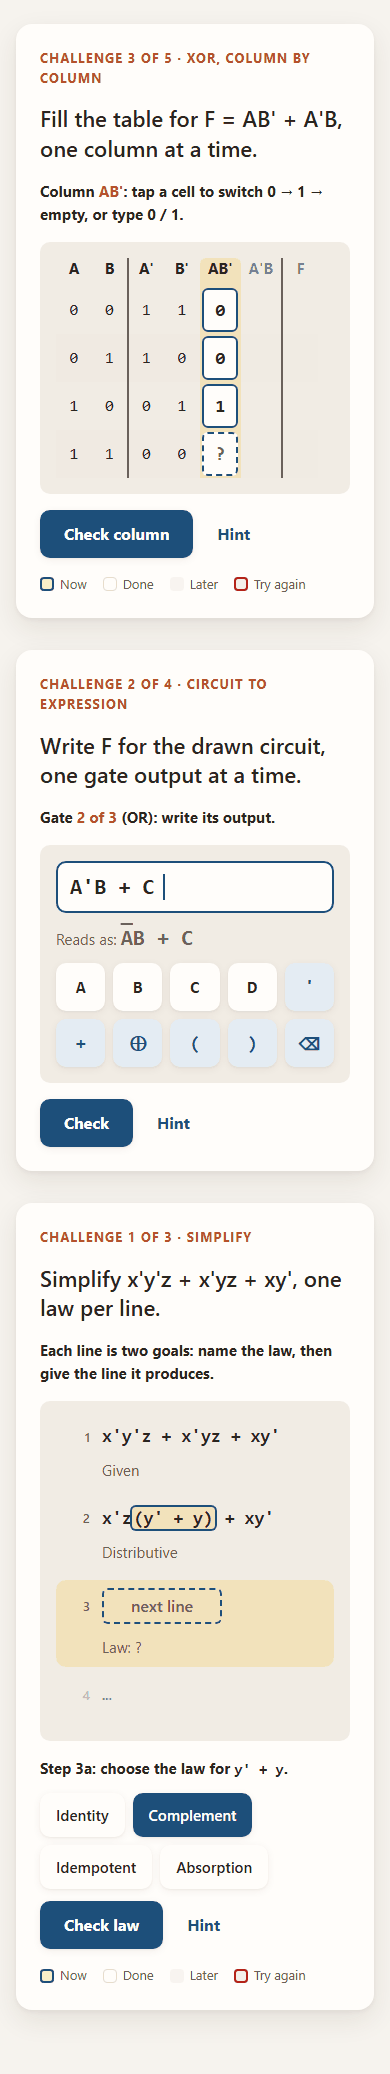
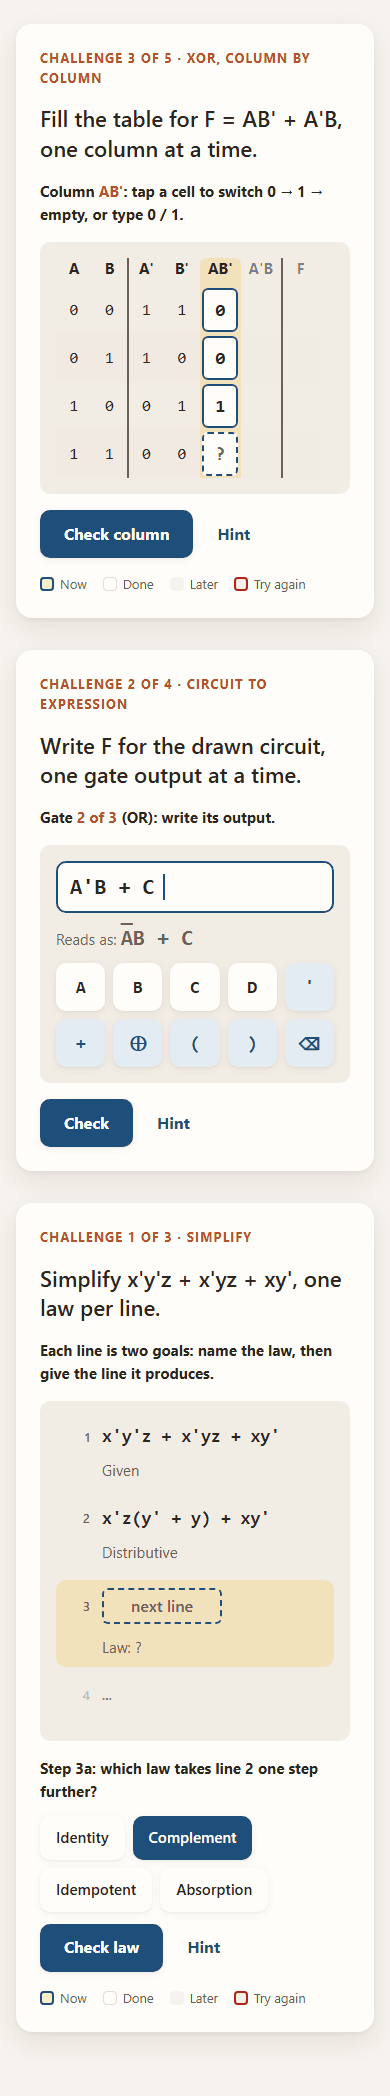
docs(design): Pedagogy changes — edge-only timing goal, first wrong cell only, derivation highlight as a hint (#245)

diff --git a/docs/design/ecet111/mockups/kinds-c.html b/docs/design/ecet111/mockups/kinds-c.html
@@ -1,3 +1,3 @@
 <!doctype html><html lang="en"><head><meta charset="utf-8"><meta name="viewport" content="width=device-width,initial-scale=1"><title>kinds-c</title>
 <link rel="stylesheet" href="../../redesign-r1/mockups/r1.css"><link rel="stylesheet" href="kinds.css"></head><body>
-<main class="stack-6" style="padding-top:var(--space-5)"><section class="stagecard"><p class="eyebrow">Challenge 1 of 2 · D flip-flop timing</p><p style="font-size:var(--text-lg);font-weight:600;line-height:1.35">Q starts at 0. Draw Q edge by edge (positive-edge triggered).</p><p class="goal">Inputs on top, clock in the middle, the output you draw at the bottom.</p><div class="well"><div class="trow2"><div class="tnames"><span style="top:6px">D</span><span style="top:52px">CLK</span><span style="top:94px">Q</span></div><div class="tscroll"><svg viewBox="-10 -4 620 136" width="620" height="136" role="img" aria-label="Timing diagram: D, CLK, Q"><rect x="284" y="0" width="32" height="128" rx="6" fill="var(--focus-halo)" stroke="var(--accent)" stroke-width="2"/><path d="M0 0 V128" stroke="var(--text-muted)" stroke-width="1" stroke-dasharray="2 4"/><path d="M100 0 V128" stroke="var(--text-muted)" stroke-width="1" stroke-dasharray="2 4"/><path d="M200 0 V128" stroke="var(--text-muted)" stroke-width="1" stroke-dasharray="2 4"/><path d="M300 0 V128" stroke="var(--text-muted)" stroke-width="1" stroke-dasharray="2 4"/><path d="M400 0 V128" stroke="var(--text-muted)" stroke-width="1" stroke-dasharray="2 4"/><path d="M500 0 V128" stroke="var(--text-muted)" stroke-width="1" stroke-dasharray="2 4"/><path d="M0 4 L-30 4 L-30 4 L70 4 L70 24 L170 24 L170 24 L270 24 L270 4 L370 4 L370 4 L470 4 L470 24 L600 24" fill="none" stroke="var(--text)" stroke-width="2"/><path d="M0 70 L0 70 L0 50 L50 50 L50 70 L100 70 L100 50 L150 50 L150 70 L200 70 L200 50 L250 50 L250 70 L300 70 L300 50 L350 50 L350 70 L400 70 L400 50 L450 50 L450 70 L500 70 L500 50 L550 50 L550 70 L600 70" fill="none" stroke="var(--text)" stroke-width="2"/><path d="M0 66 l-4 6 h8 z" fill="var(--text-muted)"/><path d="M100 66 l-4 6 h8 z" fill="var(--text-muted)"/><path d="M200 66 l-4 6 h8 z" fill="var(--text-muted)"/><path d="M300 66 l-4 6 h8 z" fill="var(--text-muted)"/><path d="M400 66 l-4 6 h8 z" fill="var(--text-muted)"/><path d="M500 66 l-4 6 h8 z" fill="var(--text-muted)"/><path d="M0 112 L0 112 L0 92 L100 92 L100 112 L200 112 L200 112 L300 112" fill="none" stroke="var(--signal-high)" stroke-width="3"/><text x="308" y="108" font-size="14" font-weight="700" fill="var(--accent)" font-family="system-ui">?</text></svg></div></div></div><div class="stack-2"><p class="goal">Edge <b>4 of 6</b> (rising): D is 1. What is Q after this edge?</p><div class="edgebar"><span class="seg" role="radiogroup" aria-label="Q after edge 4"><button>0</button><button>1</button></span><a class="btn btn-quiet" href="#">Hint</a></div></div><div class="legend"><span><i class="sw active"></i>Now</span><span><i class="sw done"></i>Done</span><span><i class="sw pend"></i>Later</span><span><i class="sw wrong"></i>Try again</span></div></section><section class="stagecard"><p class="eyebrow">Challenge 3 of 5 · State table</p><p style="font-size:var(--text-lg);font-weight:600;line-height:1.35">Fill the state table from A⁺ = Ax + Bx, B⁺ = A'x, y = (A + B)x'.</p><p class="goal">Column group <b>Next state</b>, column <b>B⁺</b>: use B⁺ = A'x on each row.</p><div class="well"><table class="tt st" aria-label="State table"><thead><tr><th colspan="2" class="band1">Present state</th><th class="band2 sep">Input</th><th colspan="2" class="band3 sep">Next state</th><th class="band4 sep">Output</th></tr><tr><th class="band1">A</th><th class="band1">B</th><th class="band2 sep">x</th><th class="band3 sep">A⁺</th><th class="band3 act">B⁺</th><th class="band4 sep pend">y</th></tr></thead><tbody><tr><td>0</td><td>0</td><td class="sep">0</td><td class="sep">0</td><td class="act"><span class="cellbtn">0</span></td><td class="sep pend"></td></tr><tr><td>0</td><td>0</td><td class="sep">1</td><td class="sep">0</td><td class="act"><span class="cellbtn">1</span></td><td class="sep pend"></td></tr><tr><td>0</td><td>1</td><td class="sep">0</td><td class="sep">0</td><td class="act"><span class="cellbtn">0</span></td><td class="sep pend"></td></tr><tr><td>0</td><td>1</td><td class="sep">1</td><td class="sep">1</td><td class="act"><span class="cellbtn">1</span></td><td class="sep pend"></td></tr><tr><td>1</td><td>0</td><td class="sep">0</td><td class="sep">0</td><td class="act"><span class="cellbtn">0</span></td><td class="sep pend"></td></tr><tr><td>1</td><td>0</td><td class="sep">1</td><td class="sep">1</td><td class="act"><span class="cellbtn empty">?</span></td><td class="sep pend"></td></tr><tr><td>1</td><td>1</td><td class="sep">0</td><td class="sep">0</td><td class="act"><span class="cellbtn empty">?</span></td><td class="sep pend"></td></tr><tr><td>1</td><td>1</td><td class="sep">1</td><td class="sep">1</td><td class="act"><span class="cellbtn empty">?</span></td><td class="sep pend"></td></tr></tbody></table></div><div class="row"><a class="btn btn-primary" href="#">Check column</a><a class="btn btn-quiet" href="#">Hint</a></div><div class="legend"><span><i class="sw active"></i>Now</span><span><i class="sw done"></i>Done</span><span><i class="sw pend"></i>Later</span><span><i class="sw wrong"></i>Try again</span></div></section><section class="stagecard"><p class="eyebrow">Challenge 4 of 5 · State diagram</p><p style="font-size:var(--text-lg);font-weight:600;line-height:1.35">Label the diagram from your state table, one arrow at a time.</p><p class="goal">Labels read input/output. Dashed arrows come later.</p><div class="well"><svg class="sd" viewBox="0 -6 360 300" width="360" style="max-width:100%;height:auto" role="img" aria-label="State diagram with four states"><defs><marker id="ah-done" viewBox="0 0 10 10" refX="9" refY="5" markerWidth="7" markerHeight="7" orient="auto-start-reverse"><path d="M0 0 L10 5 L0 10 z" fill="var(--text)"/></marker><marker id="ah-act" viewBox="0 0 10 10" refX="9" refY="5" markerWidth="7" markerHeight="7" orient="auto-start-reverse"><path d="M0 0 L10 5 L0 10 z" fill="var(--accent)"/></marker><marker id="ah-pend" viewBox="0 0 10 10" refX="9" refY="5" markerWidth="7" markerHeight="7" orient="auto-start-reverse"><path d="M0 0 L10 5 L0 10 z" fill="var(--text-muted)"/></marker></defs><path d="M100 52 Q180 22 260 52" fill="none" stroke="var(--text)" stroke-width="2" marker-end="url(#ah-done)"/><text x="180" y="34" text-anchor="middle" font-size="14" font-weight="700" fill="var(--text)">1/0</text><path d="M290 90 Q318 145 290 200" fill="none" stroke="var(--accent)" stroke-width="3.5" marker-end="url(#ah-act)"/><rect x="296" y="132" width="52" height="28" rx="6" fill="var(--focus-halo)" stroke="var(--accent)" stroke-width="2"/><text x="322" y="152" text-anchor="middle" font-size="14" font-weight="700" fill="var(--accent)">?/?</text><path d="M260 238 Q180 268 100 238" fill="none" stroke="var(--text-muted)" stroke-width="2" stroke-dasharray="6 5" opacity="0.6" marker-end="url(#ah-pend)"/><path d="M70 200 Q42 145 70 90" fill="none" stroke="var(--text)" stroke-width="2" marker-end="url(#ah-done)"/><text x="30" y="152" text-anchor="middle" font-size="14" font-weight="700" fill="var(--text)">0/1</text><path d="M48 38 C20 0 120 0 92 38" fill="none" stroke="var(--text)" stroke-width="2" marker-end="url(#ah-done)"/><text x="70" y="12" text-anchor="middle" font-size="14" font-weight="700" fill="var(--text)">0/0</text><circle cx="70" cy="60" r="30" fill="var(--surface)" stroke="var(--text)" stroke-width="2"/><text x="70" y="65" text-anchor="middle" font-size="16" font-weight="700" fill="var(--text)">00</text><circle cx="290" cy="60" r="30" fill="var(--surface)" stroke="var(--text)" stroke-width="2"/><text x="290" y="65" text-anchor="middle" font-size="16" font-weight="700" fill="var(--text)">01</text><circle cx="290" cy="230" r="30" fill="var(--surface)" stroke="var(--text)" stroke-width="2"/><text x="290" y="235" text-anchor="middle" font-size="16" font-weight="700" fill="var(--text)">11</text><circle cx="70" cy="230" r="30" fill="var(--surface)" stroke="var(--text)" stroke-width="2"/><text x="70" y="235" text-anchor="middle" font-size="16" font-weight="700" fill="var(--text)">10</text></svg></div><div class="stack-2"><p class="goal">Arrow <b>01 → 11</b>: which input/output label belongs here?</p><div class="chips" role="radiogroup" aria-label="Label"><span class="chip">0/0</span><span class="chip sel">1/0</span><span class="chip">0/1</span><span class="chip">1/1</span></div><div class="row"><a class="btn btn-primary" href="#">Check label</a><a class="btn btn-quiet" href="#">Hint</a></div></div><div class="legend"><span><i class="sw active"></i>Now</span><span><i class="sw done"></i>Done</span><span><i class="sw pend"></i>Later</span><span><i class="sw wrong"></i>Try again</span></div></section></main></body></html>
+<main class="stack-6" style="padding-top:var(--space-5)"><section class="stagecard"><p class="eyebrow">Challenge 1 of 2 · D flip-flop timing</p><p style="font-size:var(--text-lg);font-weight:600;line-height:1.35">Q starts at 0. Draw Q edge by edge (positive-edge triggered).</p><p class="goal">Inputs on top, clock in the middle, the output you draw at the bottom.</p><div class="well"><div class="trow2"><div class="tnames"><span style="top:6px">D</span><span style="top:52px">CLK</span><span style="top:94px">Q</span></div><div class="tscroll"><svg viewBox="-10 -4 620 136" width="620" height="136" role="img" aria-label="Timing diagram: D, CLK, Q"><rect x="284" y="0" width="32" height="128" rx="6" fill="var(--focus-halo)" stroke="var(--accent)" stroke-width="2"/><path d="M0 0 V128" stroke="var(--text-muted)" stroke-width="1" stroke-dasharray="2 4"/><path d="M100 0 V128" stroke="var(--text-muted)" stroke-width="1" stroke-dasharray="2 4"/><path d="M200 0 V128" stroke="var(--text-muted)" stroke-width="1" stroke-dasharray="2 4"/><path d="M300 0 V128" stroke="var(--text-muted)" stroke-width="1" stroke-dasharray="2 4"/><path d="M400 0 V128" stroke="var(--text-muted)" stroke-width="1" stroke-dasharray="2 4"/><path d="M500 0 V128" stroke="var(--text-muted)" stroke-width="1" stroke-dasharray="2 4"/><path d="M0 4 L-30 4 L-30 4 L70 4 L70 24 L170 24 L170 24 L270 24 L270 4 L370 4 L370 4 L470 4 L470 24 L600 24" fill="none" stroke="var(--text)" stroke-width="2"/><path d="M0 70 L0 70 L0 50 L50 50 L50 70 L100 70 L100 50 L150 50 L150 70 L200 70 L200 50 L250 50 L250 70 L300 70 L300 50 L350 50 L350 70 L400 70 L400 50 L450 50 L450 70 L500 70 L500 50 L550 50 L550 70 L600 70" fill="none" stroke="var(--text)" stroke-width="2"/><path d="M0 66 l-4 6 h8 z" fill="var(--text-muted)"/><path d="M100 66 l-4 6 h8 z" fill="var(--text-muted)"/><path d="M200 66 l-4 6 h8 z" fill="var(--text-muted)"/><path d="M300 66 l-4 6 h8 z" fill="var(--text-muted)"/><path d="M400 66 l-4 6 h8 z" fill="var(--text-muted)"/><path d="M500 66 l-4 6 h8 z" fill="var(--text-muted)"/><path d="M0 112 L0 112 L0 92 L100 92 L100 112 L200 112 L200 112 L300 112" fill="none" stroke="var(--signal-high)" stroke-width="3"/><text x="308" y="108" font-size="14" font-weight="700" fill="var(--accent)" font-family="system-ui">?</text></svg></div></div></div><div class="stack-2"><p class="goal">Edge <b>4 of 6</b> (rising): what is Q after this edge?</p><div class="edgebar"><span class="seg" role="radiogroup" aria-label="Q after edge 4"><button>0</button><button>1</button></span><a class="btn btn-quiet" href="#">Hint</a></div></div><div class="legend"><span><i class="sw active"></i>Now</span><span><i class="sw done"></i>Done</span><span><i class="sw pend"></i>Later</span><span><i class="sw wrong"></i>Try again</span></div></section><section class="stagecard"><p class="eyebrow">Challenge 3 of 5 · State table</p><p style="font-size:var(--text-lg);font-weight:600;line-height:1.35">Fill the state table from A⁺ = Ax + Bx, B⁺ = A'x, y = (A + B)x'.</p><p class="goal">Column group <b>Next state</b>, column <b>B⁺</b>: use B⁺ = A'x on each row.</p><div class="well"><table class="tt st" aria-label="State table"><thead><tr><th colspan="2" class="band1">Present state</th><th class="band2 sep">Input</th><th colspan="2" class="band3 sep">Next state</th><th class="band4 sep">Output</th></tr><tr><th class="band1">A</th><th class="band1">B</th><th class="band2 sep">x</th><th class="band3 sep">A⁺</th><th class="band3 act">B⁺</th><th class="band4 sep pend">y</th></tr></thead><tbody><tr><td>0</td><td>0</td><td class="sep">0</td><td class="sep">0</td><td class="act"><span class="cellbtn">0</span></td><td class="sep pend"></td></tr><tr><td>0</td><td>0</td><td class="sep">1</td><td class="sep">0</td><td class="act"><span class="cellbtn">1</span></td><td class="sep pend"></td></tr><tr><td>0</td><td>1</td><td class="sep">0</td><td class="sep">0</td><td class="act"><span class="cellbtn">0</span></td><td class="sep pend"></td></tr><tr><td>0</td><td>1</td><td class="sep">1</td><td class="sep">1</td><td class="act"><span class="cellbtn">1</span></td><td class="sep pend"></td></tr><tr><td>1</td><td>0</td><td class="sep">0</td><td class="sep">0</td><td class="act"><span class="cellbtn">0</span></td><td class="sep pend"></td></tr><tr><td>1</td><td>0</td><td class="sep">1</td><td class="sep">1</td><td class="act"><span class="cellbtn empty">?</span></td><td class="sep pend"></td></tr><tr><td>1</td><td>1</td><td class="sep">0</td><td class="sep">0</td><td class="act"><span class="cellbtn empty">?</span></td><td class="sep pend"></td></tr><tr><td>1</td><td>1</td><td class="sep">1</td><td class="sep">1</td><td class="act"><span class="cellbtn empty">?</span></td><td class="sep pend"></td></tr></tbody></table></div><div class="row"><a class="btn btn-primary" href="#">Check column</a><a class="btn btn-quiet" href="#">Hint</a></div><div class="legend"><span><i class="sw active"></i>Now</span><span><i class="sw done"></i>Done</span><span><i class="sw pend"></i>Later</span><span><i class="sw wrong"></i>Try again</span></div></section><section class="stagecard"><p class="eyebrow">Challenge 4 of 5 · State diagram</p><p style="font-size:var(--text-lg);font-weight:600;line-height:1.35">Label the diagram from your state table, one arrow at a time.</p><p class="goal">Labels read input/output. Dashed arrows come later.</p><div class="well"><svg class="sd" viewBox="0 -6 360 300" width="360" style="max-width:100%;height:auto" role="img" aria-label="State diagram with four states"><defs><marker id="ah-done" viewBox="0 0 10 10" refX="9" refY="5" markerWidth="7" markerHeight="7" orient="auto-start-reverse"><path d="M0 0 L10 5 L0 10 z" fill="var(--text)"/></marker><marker id="ah-act" viewBox="0 0 10 10" refX="9" refY="5" markerWidth="7" markerHeight="7" orient="auto-start-reverse"><path d="M0 0 L10 5 L0 10 z" fill="var(--accent)"/></marker><marker id="ah-pend" viewBox="0 0 10 10" refX="9" refY="5" markerWidth="7" markerHeight="7" orient="auto-start-reverse"><path d="M0 0 L10 5 L0 10 z" fill="var(--text-muted)"/></marker></defs><path d="M100 52 Q180 22 260 52" fill="none" stroke="var(--text)" stroke-width="2" marker-end="url(#ah-done)"/><text x="180" y="34" text-anchor="middle" font-size="14" font-weight="700" fill="var(--text)">1/0</text><path d="M290 90 Q318 145 290 200" fill="none" stroke="var(--accent)" stroke-width="3.5" marker-end="url(#ah-act)"/><rect x="296" y="132" width="52" height="28" rx="6" fill="var(--focus-halo)" stroke="var(--accent)" stroke-width="2"/><text x="322" y="152" text-anchor="middle" font-size="14" font-weight="700" fill="var(--accent)">?/?</text><path d="M260 238 Q180 268 100 238" fill="none" stroke="var(--text-muted)" stroke-width="2" stroke-dasharray="6 5" opacity="0.6" marker-end="url(#ah-pend)"/><path d="M70 200 Q42 145 70 90" fill="none" stroke="var(--text)" stroke-width="2" marker-end="url(#ah-done)"/><text x="30" y="152" text-anchor="middle" font-size="14" font-weight="700" fill="var(--text)">0/1</text><path d="M48 38 C20 0 120 0 92 38" fill="none" stroke="var(--text)" stroke-width="2" marker-end="url(#ah-done)"/><text x="70" y="12" text-anchor="middle" font-size="14" font-weight="700" fill="var(--text)">0/0</text><circle cx="70" cy="60" r="30" fill="var(--surface)" stroke="var(--text)" stroke-width="2"/><text x="70" y="65" text-anchor="middle" font-size="16" font-weight="700" fill="var(--text)">00</text><circle cx="290" cy="60" r="30" fill="var(--surface)" stroke="var(--text)" stroke-width="2"/><text x="290" y="65" text-anchor="middle" font-size="16" font-weight="700" fill="var(--text)">01</text><circle cx="290" cy="230" r="30" fill="var(--surface)" stroke="var(--text)" stroke-width="2"/><text x="290" y="235" text-anchor="middle" font-size="16" font-weight="700" fill="var(--text)">11</text><circle cx="70" cy="230" r="30" fill="var(--surface)" stroke="var(--text)" stroke-width="2"/><text x="70" y="235" text-anchor="middle" font-size="16" font-weight="700" fill="var(--text)">10</text></svg></div><div class="stack-2"><p class="goal">Arrow <b>01 → 11</b>: which input/output label belongs here?</p><div class="chips" role="radiogroup" aria-label="Label"><span class="chip">0/0</span><span class="chip sel">1/0</span><span class="chip">0/1</span><span class="chip">1/1</span></div><div class="row"><a class="btn btn-primary" href="#">Check label</a><a class="btn btn-quiet" href="#">Hint</a></div></div><div class="legend"><span><i class="sw active"></i>Now</span><span><i class="sw done"></i>Done</span><span><i class="sw pend"></i>Later</span><span><i class="sw wrong"></i>Try again</span></div></section></main></body></html>

diff --git a/docs/design/ecet111/mockups/kinds-a.html b/docs/design/ecet111/mockups/kinds-a.html
@@ -1,3 +1,3 @@
 <!doctype html><html lang="en"><head><meta charset="utf-8"><meta name="viewport" content="width=device-width,initial-scale=1"><title>Truth table, expression, derivation</title>
 <link rel="stylesheet" href="../../redesign-r1/mockups/r1.css"><link rel="stylesheet" href="kinds.css"></head><body>
-<main class="stack-6" style="padding-top:var(--space-5)"><section class="stagecard"><p class="eyebrow">Challenge 3 of 5 · XOR, column by column</p><p style="font-size:var(--text-lg);font-weight:600;line-height:1.35">Fill the table for F = AB' + A'B, one column at a time.</p><p class="goal">Column <b>AB'</b>: tap a cell to switch 0 → 1 → empty, or type 0 / 1.</p><div class="well"><table class="tt" aria-label="Truth table for F = AB' + A'B"><thead><tr><th>A</th><th>B</th><th class="sep">A'</th><th>B'</th><th class="act">AB'</th><th class="pend">A'B</th><th class="pend sep">F</th></tr></thead><tbody><tr><td>0</td><td>0</td><td class="sep">1</td><td>1</td><td class="act"><span class="cellbtn" role="button" aria-label="Row 00, AB': 0">0</span></td><td class="pend"></td><td class="pend sep"></td></tr><tr><td>0</td><td>1</td><td class="sep">1</td><td>0</td><td class="act"><span class="cellbtn" role="button" aria-label="Row 01, AB': 0">0</span></td><td class="pend"></td><td class="pend sep"></td></tr><tr><td>1</td><td>0</td><td class="sep">0</td><td>1</td><td class="act"><span class="cellbtn" role="button" aria-label="Row 10, AB': 1">1</span></td><td class="pend"></td><td class="pend sep"></td></tr><tr><td>1</td><td>1</td><td class="sep">0</td><td>0</td><td class="act"><span class="cellbtn empty" role="button" aria-label="Row 11, AB': empty">?</span></td><td class="pend"></td><td class="pend sep"></td></tr></tbody></table></div><div class="row"><a class="btn btn-primary" href="#">Check column</a><a class="btn btn-quiet" href="#">Hint</a></div><div class="legend"><span><i class="sw active"></i>Now</span><span><i class="sw done"></i>Done</span><span><i class="sw pend"></i>Later</span><span><i class="sw wrong"></i>Try again</span></div></section><section class="stagecard"><p class="eyebrow">Challenge 2 of 4 · Circuit to expression</p><p style="font-size:var(--text-lg);font-weight:600;line-height:1.35">Write F for the drawn circuit, one gate output at a time.</p><p class="goal">Gate <b>2 of 3</b> (OR): write its output.</p><div class="well"><div class="stack-3"><div class="expr" aria-label="Your expression">A'B + C<span class="caret"></span></div><p class="small muted">Reads as: <span class="preview"><span class="ov">A</span>B + C</span></p><div class="keys show-sm-grid" role="group" aria-label="Expression keys"><span class="key">A</span><span class="key">B</span><span class="key">C</span><span class="key">D</span><span class="key op" aria-label="complement (NOT)">'</span><span class="key op" aria-label="OR">+</span><span class="key op" aria-label="XOR">⊕</span><span class="key op" aria-label="open bracket">(</span><span class="key op" aria-label="close bracket">)</span><span class="key op" aria-label="delete">⌫</span></div></div></div><div class="row"><a class="btn btn-primary" href="#">Check</a><a class="btn btn-quiet" href="#">Hint</a></div></section><section class="stagecard"><p class="eyebrow">Challenge 1 of 3 · Simplify</p><p style="font-size:var(--text-lg);font-weight:600;line-height:1.35">Simplify x'y'z + x'yz + xy', one law per line.</p><p class="goal">Each line is two goals: name the law, then give the line it produces.</p><div class="well"><ol class="deriv"><li><span class="ex">x'y'z + x'yz + xy'</span><span class="law">Given</span></li><li><span class="ex">x'z<span class="hl">(y' + y)</span> + xy'</span><span class="law">Distributive</span></li><li class="act"><span class="ex"><span class="slot">next line</span></span><span class="law">Law: ?</span></li><li class="pend"><span class="ex">…</span><span class="law"></span></li></ol></div><div class="stack-3"><p class="goal">Step 3a: choose the law for <span class="mono">y' + y</span>.</p><div class="chips" role="radiogroup" aria-label="Law"><span class="chip" role="radio" aria-checked="false">Identity</span><span class="chip sel" role="radio" aria-checked="true">Complement</span><span class="chip" role="radio" aria-checked="false">Idempotent</span><span class="chip" role="radio" aria-checked="false">Absorption</span></div><div class="row"><a class="btn btn-primary" href="#">Check law</a><a class="btn btn-quiet" href="#">Hint</a></div></div><div class="legend"><span><i class="sw active"></i>Now</span><span><i class="sw done"></i>Done</span><span><i class="sw pend"></i>Later</span><span><i class="sw wrong"></i>Try again</span></div></section></main></body></html>
+<main class="stack-6" style="padding-top:var(--space-5)"><section class="stagecard"><p class="eyebrow">Challenge 3 of 5 · XOR, column by column</p><p style="font-size:var(--text-lg);font-weight:600;line-height:1.35">Fill the table for F = AB' + A'B, one column at a time.</p><p class="goal">Column <b>AB'</b>: tap a cell to switch 0 → 1 → empty, or type 0 / 1.</p><div class="well"><table class="tt" aria-label="Truth table for F = AB' + A'B"><thead><tr><th>A</th><th>B</th><th class="sep">A'</th><th>B'</th><th class="act">AB'</th><th class="pend">A'B</th><th class="pend sep">F</th></tr></thead><tbody><tr><td>0</td><td>0</td><td class="sep">1</td><td>1</td><td class="act"><span class="cellbtn" role="button" aria-label="Row 00, AB': 0">0</span></td><td class="pend"></td><td class="pend sep"></td></tr><tr><td>0</td><td>1</td><td class="sep">1</td><td>0</td><td class="act"><span class="cellbtn" role="button" aria-label="Row 01, AB': 0">0</span></td><td class="pend"></td><td class="pend sep"></td></tr><tr><td>1</td><td>0</td><td class="sep">0</td><td>1</td><td class="act"><span class="cellbtn" role="button" aria-label="Row 10, AB': 1">1</span></td><td class="pend"></td><td class="pend sep"></td></tr><tr><td>1</td><td>1</td><td class="sep">0</td><td>0</td><td class="act"><span class="cellbtn empty" role="button" aria-label="Row 11, AB': empty">?</span></td><td class="pend"></td><td class="pend sep"></td></tr></tbody></table></div><div class="row"><a class="btn btn-primary" href="#">Check column</a><a class="btn btn-quiet" href="#">Hint</a></div><div class="legend"><span><i class="sw active"></i>Now</span><span><i class="sw done"></i>Done</span><span><i class="sw pend"></i>Later</span><span><i class="sw wrong"></i>Try again</span></div></section><section class="stagecard"><p class="eyebrow">Challenge 2 of 4 · Circuit to expression</p><p style="font-size:var(--text-lg);font-weight:600;line-height:1.35">Write F for the drawn circuit, one gate output at a time.</p><p class="goal">Gate <b>2 of 3</b> (OR): write its output.</p><div class="well"><div class="stack-3"><div class="expr" aria-label="Your expression">A'B + C<span class="caret"></span></div><p class="small muted">Reads as: <span class="preview"><span class="ov">A</span>B + C</span></p><div class="keys show-sm-grid" role="group" aria-label="Expression keys"><span class="key">A</span><span class="key">B</span><span class="key">C</span><span class="key">D</span><span class="key op" aria-label="complement (NOT)">'</span><span class="key op" aria-label="OR">+</span><span class="key op" aria-label="XOR">⊕</span><span class="key op" aria-label="open bracket">(</span><span class="key op" aria-label="close bracket">)</span><span class="key op" aria-label="delete">⌫</span></div></div></div><div class="row"><a class="btn btn-primary" href="#">Check</a><a class="btn btn-quiet" href="#">Hint</a></div></section><section class="stagecard"><p class="eyebrow">Challenge 1 of 3 · Simplify</p><p style="font-size:var(--text-lg);font-weight:600;line-height:1.35">Simplify x'y'z + x'yz + xy', one law per line.</p><p class="goal">Each line is two goals: name the law, then give the line it produces.</p><div class="well"><ol class="deriv"><li><span class="ex">x'y'z + x'yz + xy'</span><span class="law">Given</span></li><li><span class="ex">x'z(y' + y) + xy'</span><span class="law">Distributive</span></li><li class="act"><span class="ex"><span class="slot">next line</span></span><span class="law">Law: ?</span></li><li class="pend"><span class="ex">…</span><span class="law"></span></li></ol></div><div class="stack-3"><p class="goal">Step 3a: which law takes line 2 one step further?</p><div class="chips" role="radiogroup" aria-label="Law"><span class="chip" role="radio" aria-checked="false">Identity</span><span class="chip sel" role="radio" aria-checked="true">Complement</span><span class="chip" role="radio" aria-checked="false">Idempotent</span><span class="chip" role="radio" aria-checked="false">Absorption</span></div><div class="row"><a class="btn btn-primary" href="#">Check law</a><a class="btn btn-quiet" href="#">Hint</a></div></div><div class="legend"><span><i class="sw active"></i>Now</span><span><i class="sw done"></i>Done</span><span><i class="sw pend"></i>Later</span><span><i class="sw wrong"></i>Try again</span></div></section></main></body></html>

diff --git a/docs/design/ecet111-representations.md b/docs/design/ecet111-representations.md
@@ -22,7 +22,7 @@ at 1280 and 390 px. Examples in the mock-ups are illustrative, not content.
   - *Now*: `--focus-halo` behind the active cells, column, group, edge or line, plus a 2 px `--accent` outline on the inputs.
   - *Done*: normal text on `--surface`.
   - *Later*: `--pending-opacity`, values hidden, headers still visible so the student sees the plan.
-  - *Try again*: `--error-bg` with a 2 px `--error` border and a ✕ glyph. The feedback line says what to look at.
+  - *Try again*: `--error-bg` with a 2 px `--error` border and a ✕ glyph. After a wrong Check only the **first** wrong cell is marked, and the feedback line says how many are wrong ("2 cells are not right yet; look at row 0 1"). Marking every wrong cell comes only at hint rung 5, because with 0/1 values it hands over the answer (Pedagogy, #245; same pattern as first-wrong-bit, #35).
   - Each card ends with a small legend.
 - **Sizes:**
   - Every tappable cell is at least 44 px tall and 36 px wide on phones.
@@ -43,7 +43,7 @@ at 1280 and 390 px. Examples in the mock-ups are illustrative, not content.
 - **Choices** (law chips, state-diagram labels, mux inputs, the timing 0/1 control): one `radiogroup` with a single tab stop. Arrow keys move, Space or Enter selects, and Check confirms.
 - **Expression field:** the on-screen keys are buttons in tab order after the field, and every key also works from the keyboard.
 - **Timing and state diagrams:** the active edge or arrow is described in the goal line. The diagram itself is `role="img"` with a text summary, not focusable.
-- **Focus:** after a correct check, focus moves to the next goal's control and the live region says what changed ("Column AB' correct. Next: column A'B"). After a wrong check, focus stays put and the first wrong cell is named.
+- **Focus:** after a correct check, focus moves to the next goal's control and the live region says what changed ("Column AB' correct. Next: column A'B"). After a wrong check, focus stays put and the live region gives the count and names the first wrong cell only.
 
 ## 2. Truth table (N-truth-table, incl. row-select mode)
 - **Layout:** inputs on the left, then intermediate columns (A', B', AB'…), the output last, as on the slides.
@@ -53,7 +53,7 @@ at 1280 and 390 px. Examples in the mock-ups are illustrative, not content.
 - **Filling:** one column per goal.
   - Tap a cell to cycle empty → 0 → 1 → empty (X added when the spec allows don't-cares). Keys 0/1/x type, arrows move.
   - Later columns stay visible but empty and dim.
-  - Wrong cells are marked individually after Check; correct cells keep their value.
+  - After a wrong Check: the count of wrong cells, and only the first one marked (§1). Correct cells keep their value.
 - **16-row tables on phones:** sticky header row. Cells are 36 × 44 px, so 7 columns fit in 358 px. Wider tables scroll inside the well with a fade edge and the active column scrolled into view.
 - **Row-select mode:** a check column ("pick the 1-rows", "decoder outputs for S"), or a per-row choice of 0 / 1 / z / z' for mux design. The choice opens as chips under the row on phones.
 - **State tables** use the same component with two-level headers: Present state | Input | Next state | (Flip-flop inputs) | Output.
@@ -76,7 +76,7 @@ at 1280 and 390 px. Examples in the mock-ups are illustrative, not content.
   1. Choose the law, from 3–4 chips.
   2. Give or choose the line it produces.
 
-  While the student chooses the law, the sub-expression it applies to is highlighted in the previous line (`.hl`), and the new line is an empty dashed slot.
+  The new line is an empty dashed slot. The student finds the pattern. Highlighting the sub-expression the law applies to (`.hl`) is hint rung 5, not the default (Pedagogy, #245).
 - Later lines show only "…" at `--pending-opacity`.
 
 ## 5. K-map (N-kmap)
@@ -100,7 +100,7 @@ at 1280 and 390 px. Examples in the mock-ups are illustrative, not content.
 - **Layout (slides):** time runs left to right. Inputs on top, clock in the middle, outputs at the bottom.
   - Signal names sit on the left in italic bold, in a fixed column that stays put while the diagram scrolls on phones.
   - A dotted vertical guide at every active edge, and the trigger edge stated in the prompt ("positive-edge triggered"). The slides use a red ring and a corner tag; we use the halo and words.
-- **Step = one active edge.** The active edge gets a halo column and a "?" on the output row. The goal line names the edge and the input value at that edge ("Edge 4 of 6 (rising): D is 1").
+- **Step = one active edge.** The active edge gets a halo column and a "?" on the output row. The goal line names **the edge only** ("Edge 4 of 6 (rising)"). Reading the inputs at that edge is the student's skill. Pointing at the input at the active edge is hint rung 5 (Pedagogy, #245).
   - The student answers with a 0 / 1 segmented control (48 px). The output trace then draws to the next edge in `--signal-high`.
   - Initial Q is always stated (course map).
 - **Phones:** the SVG keeps its 12 px text and scrolls inside the well with the active edge scrolled into view. The names column stays fixed.
